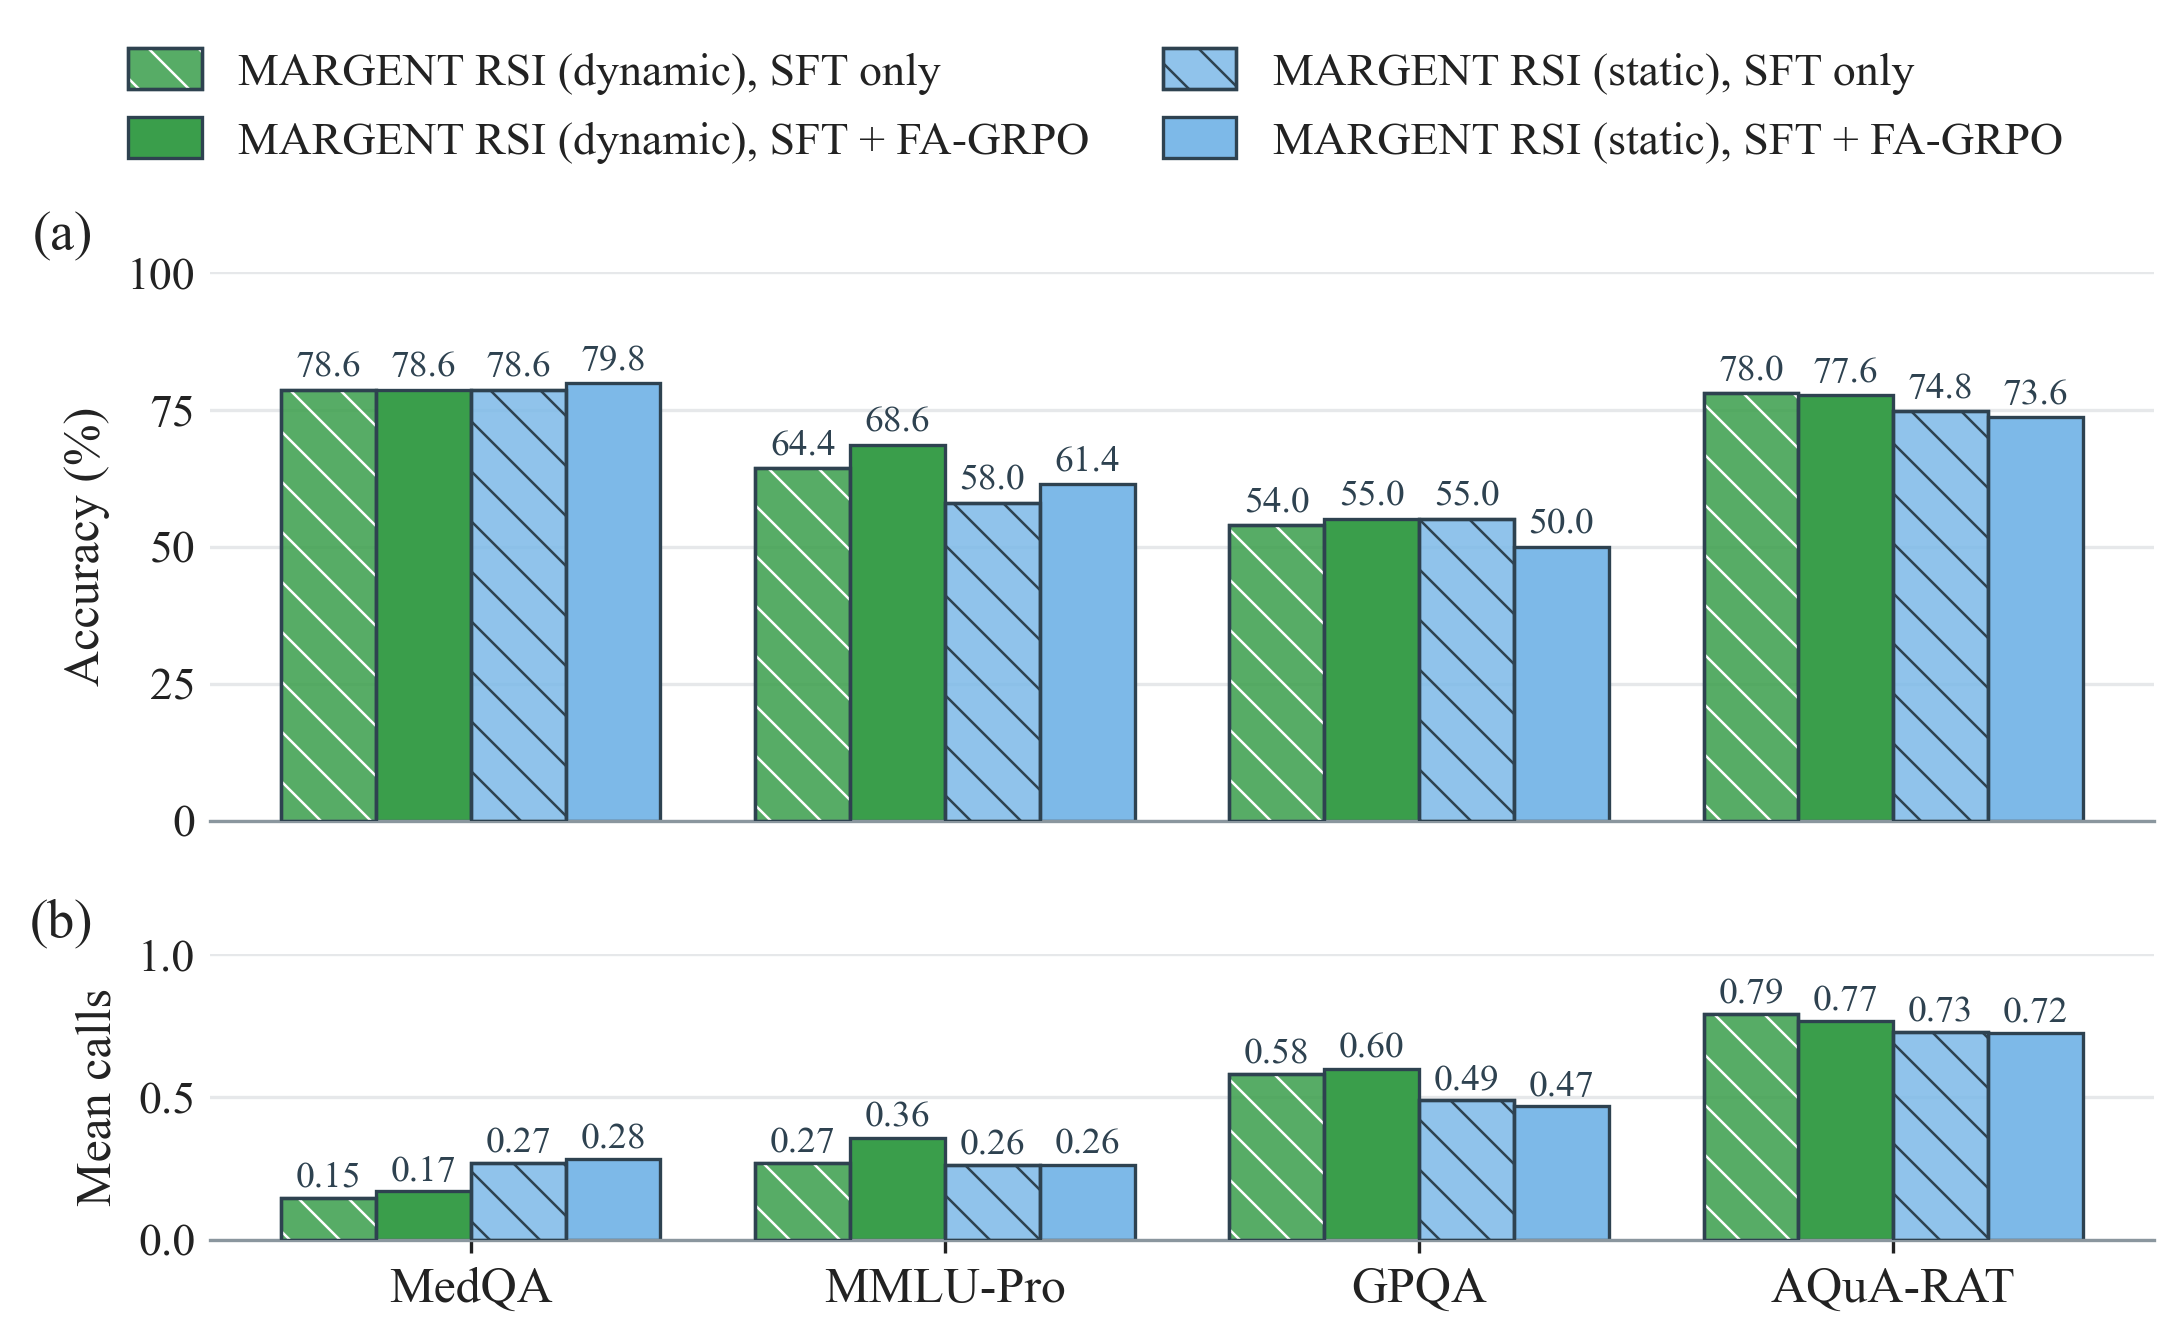
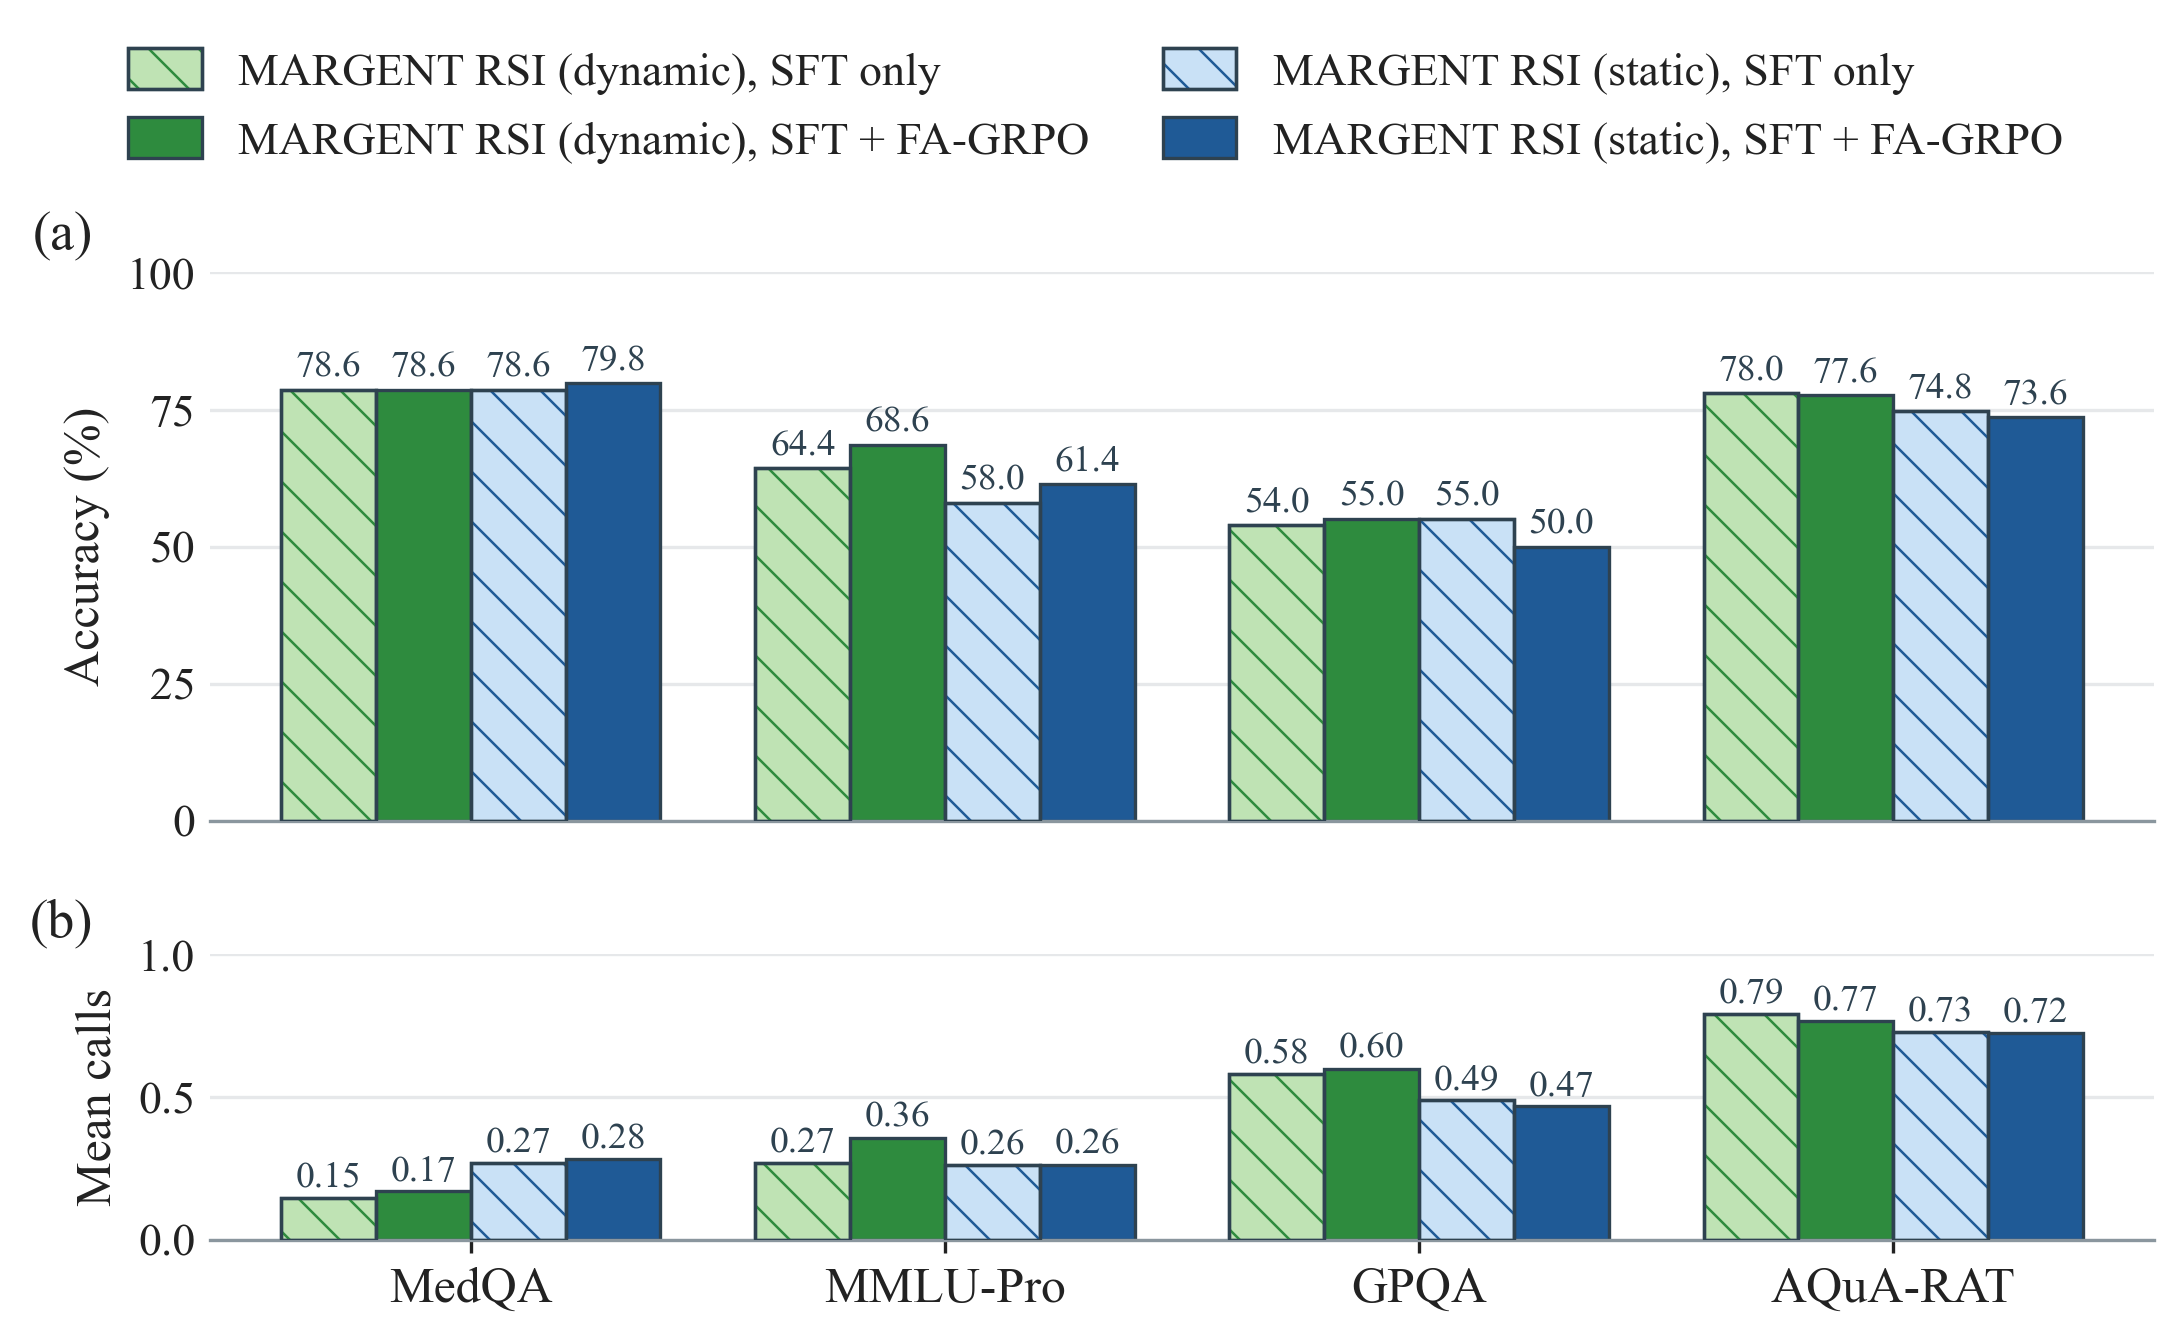
MCQ RSI paper assets: light/dark shade per arm in the GRPO figure (both palettes)
SFT only = light tint with a dark hatch, SFT + FA-GRPO = solid dark shade of the same hue.

diff --git a/agent_routing/docs/mcq_rsi_results/paper_assets/scripts/fig_grpo_ablation.py b/agent_routing/docs/mcq_rsi_results/paper_assets/scripts/fig_grpo_ablation.py
@@ -29,15 +29,14 @@ ALPHA = style.NO_GRPO["alpha"]
 HATCH_COLOR = {"dynamic": "white", "static": style.C["edge"]}
 
 
-# Google palette: the static arm is drawn in Google blue next to the green dynamic arm (red beside green clashed)
-FACE = {"static": style.C["blue"]} if style.PALETTE == "google" else {}
-if style.PALETTE == "google":
-    HATCH_COLOR = {"dynamic": "white", "static": "white"}
+# light / dark shade of one hue per arm: SFT only = light tint with a dark hatch, SFT + FA-GRPO = solid dark (2026-10-13)
+PAIR = ({"dynamic": ("#A8DAB5", "#1E8E3E"), "static": ("#AECBFA", "#1A73E8")} if style.PALETTE == "google"
+        else {"dynamic": ("#BFE3B4", "#2E8B3E"), "static": ("#C9E1F6", "#1F5A96")})
+HATCH_COLOR = {pol: dark for pol, (light, dark) in PAIR.items()}
 
 
 def face(pol, grpo):
-    fc = FACE.get(pol, style.POLICY[pol]["facecolor"])
-    return fc if grpo else to_rgba(fc, ALPHA)
+    return PAIR[pol][1] if grpo else PAIR[pol][0]
 
 
 def draw_series(ax, xs, vals, pol, grpo):
